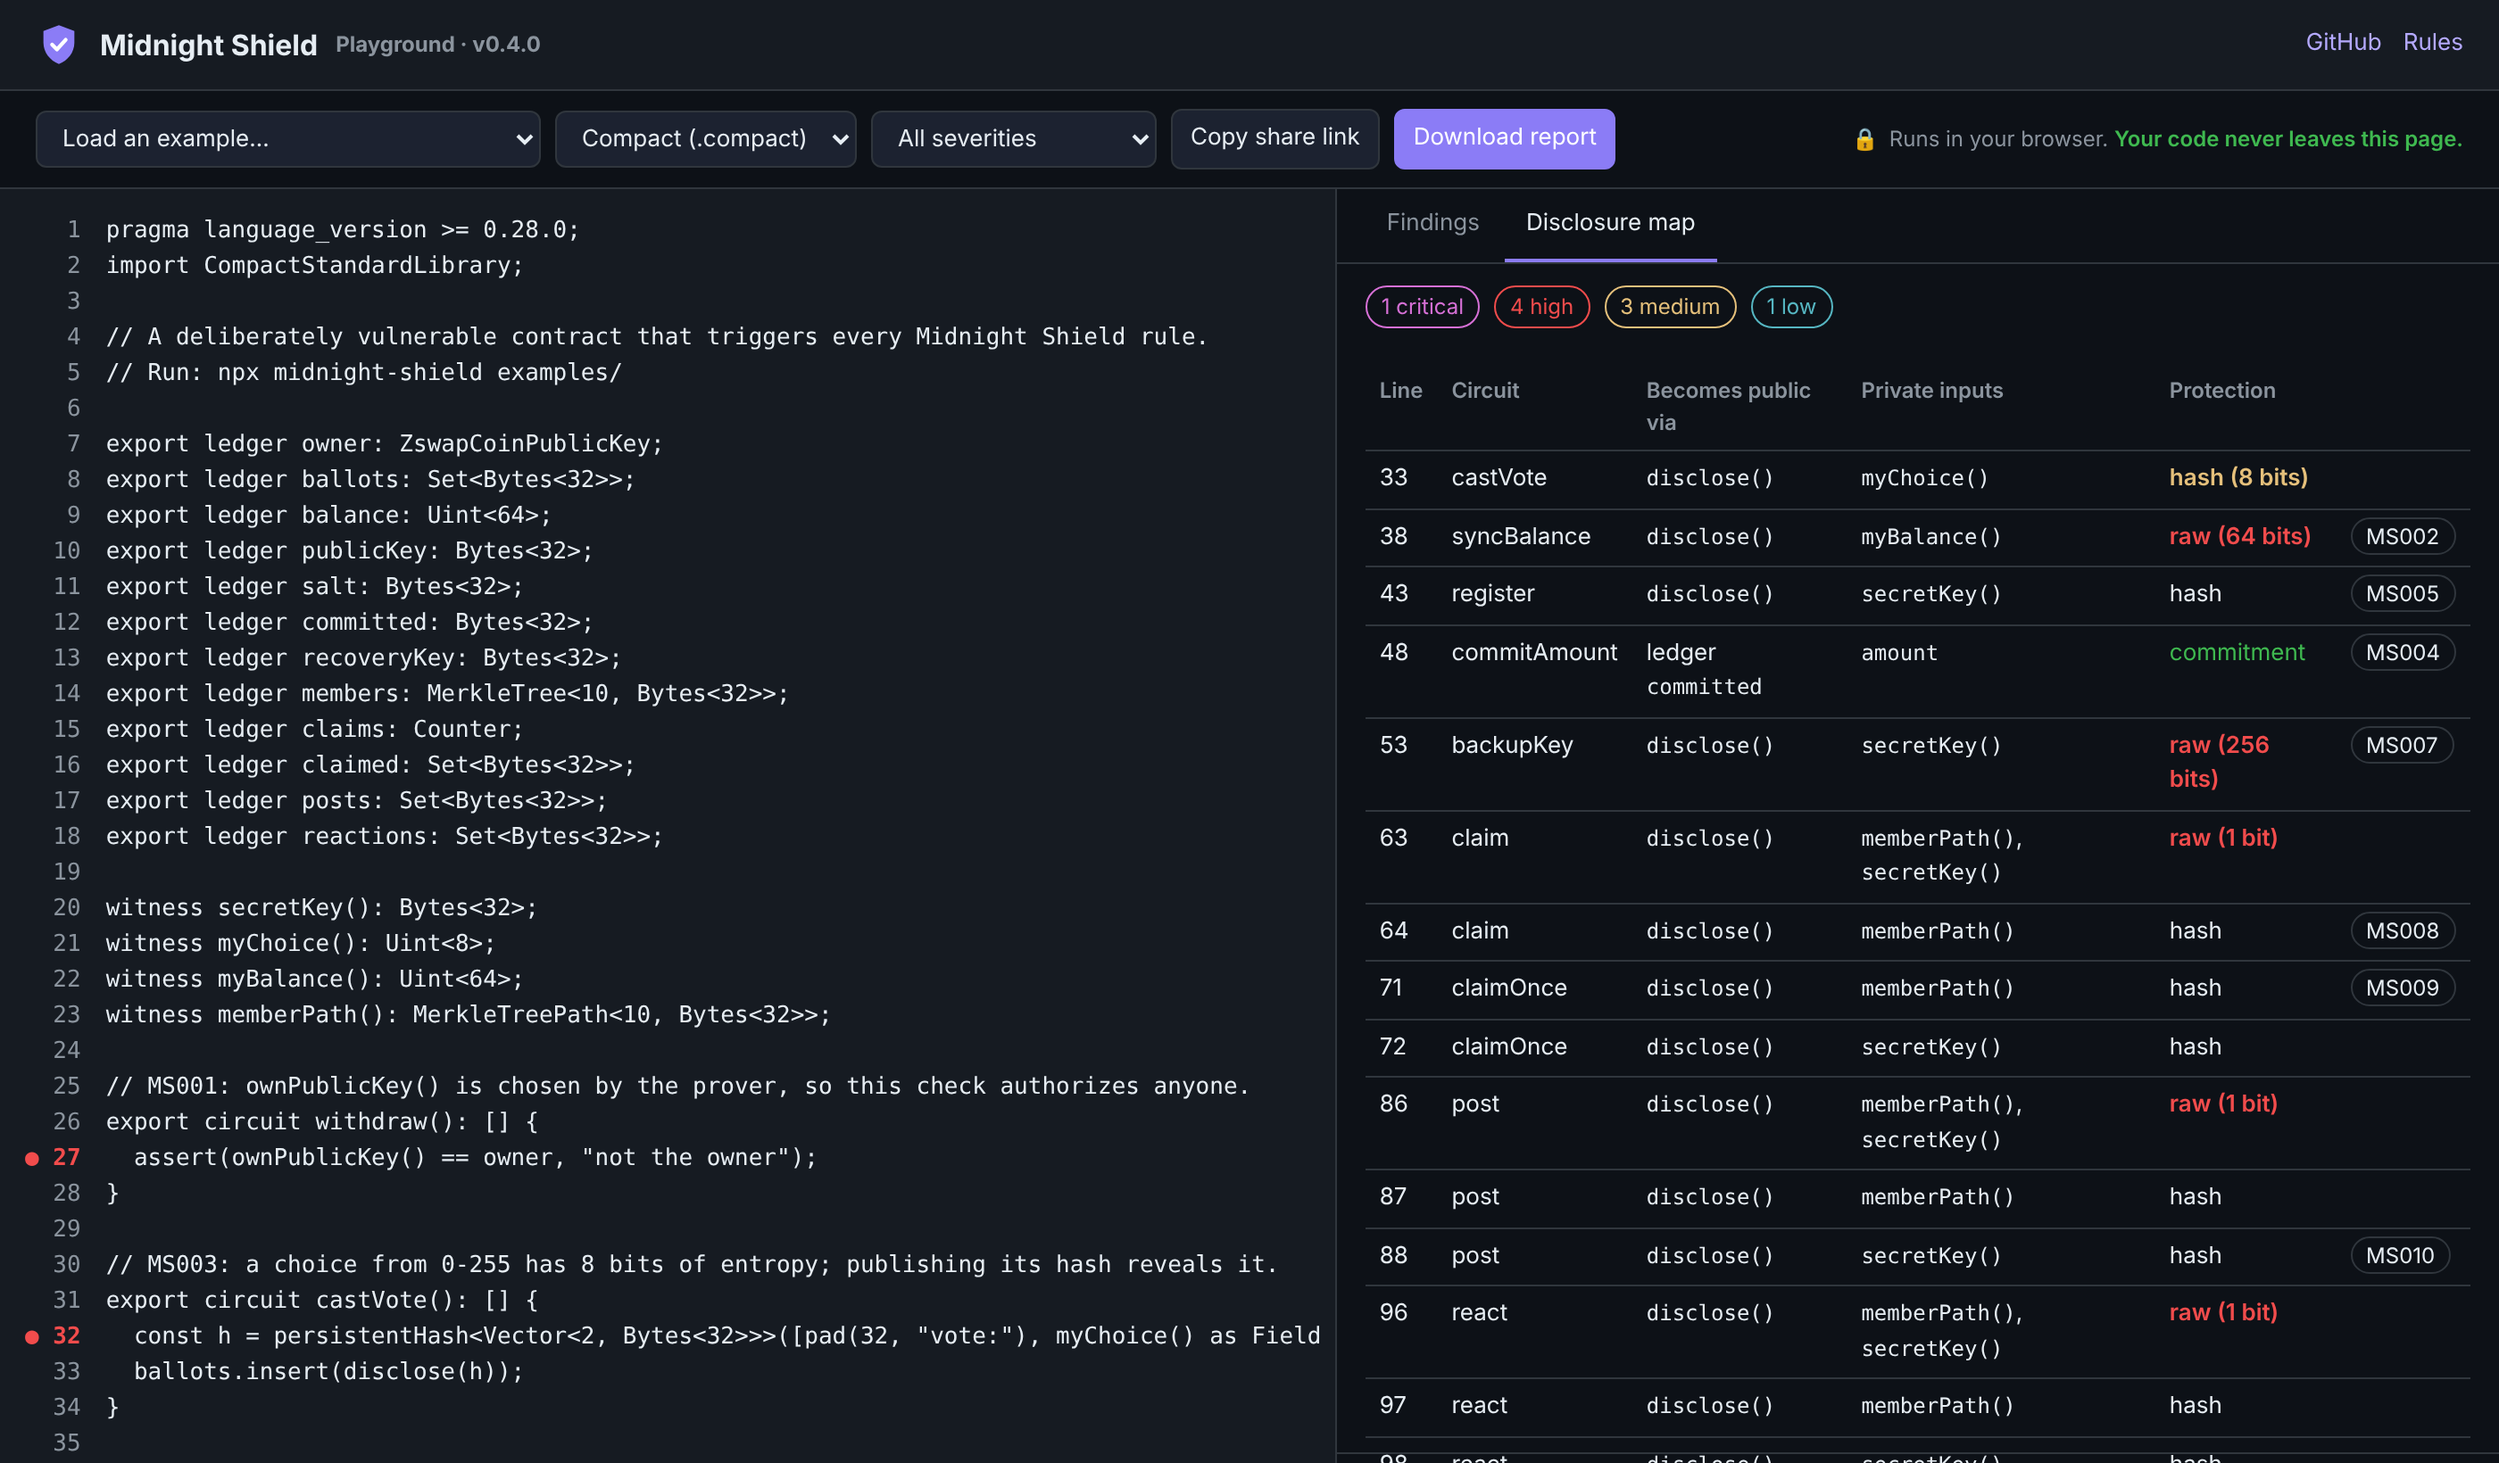
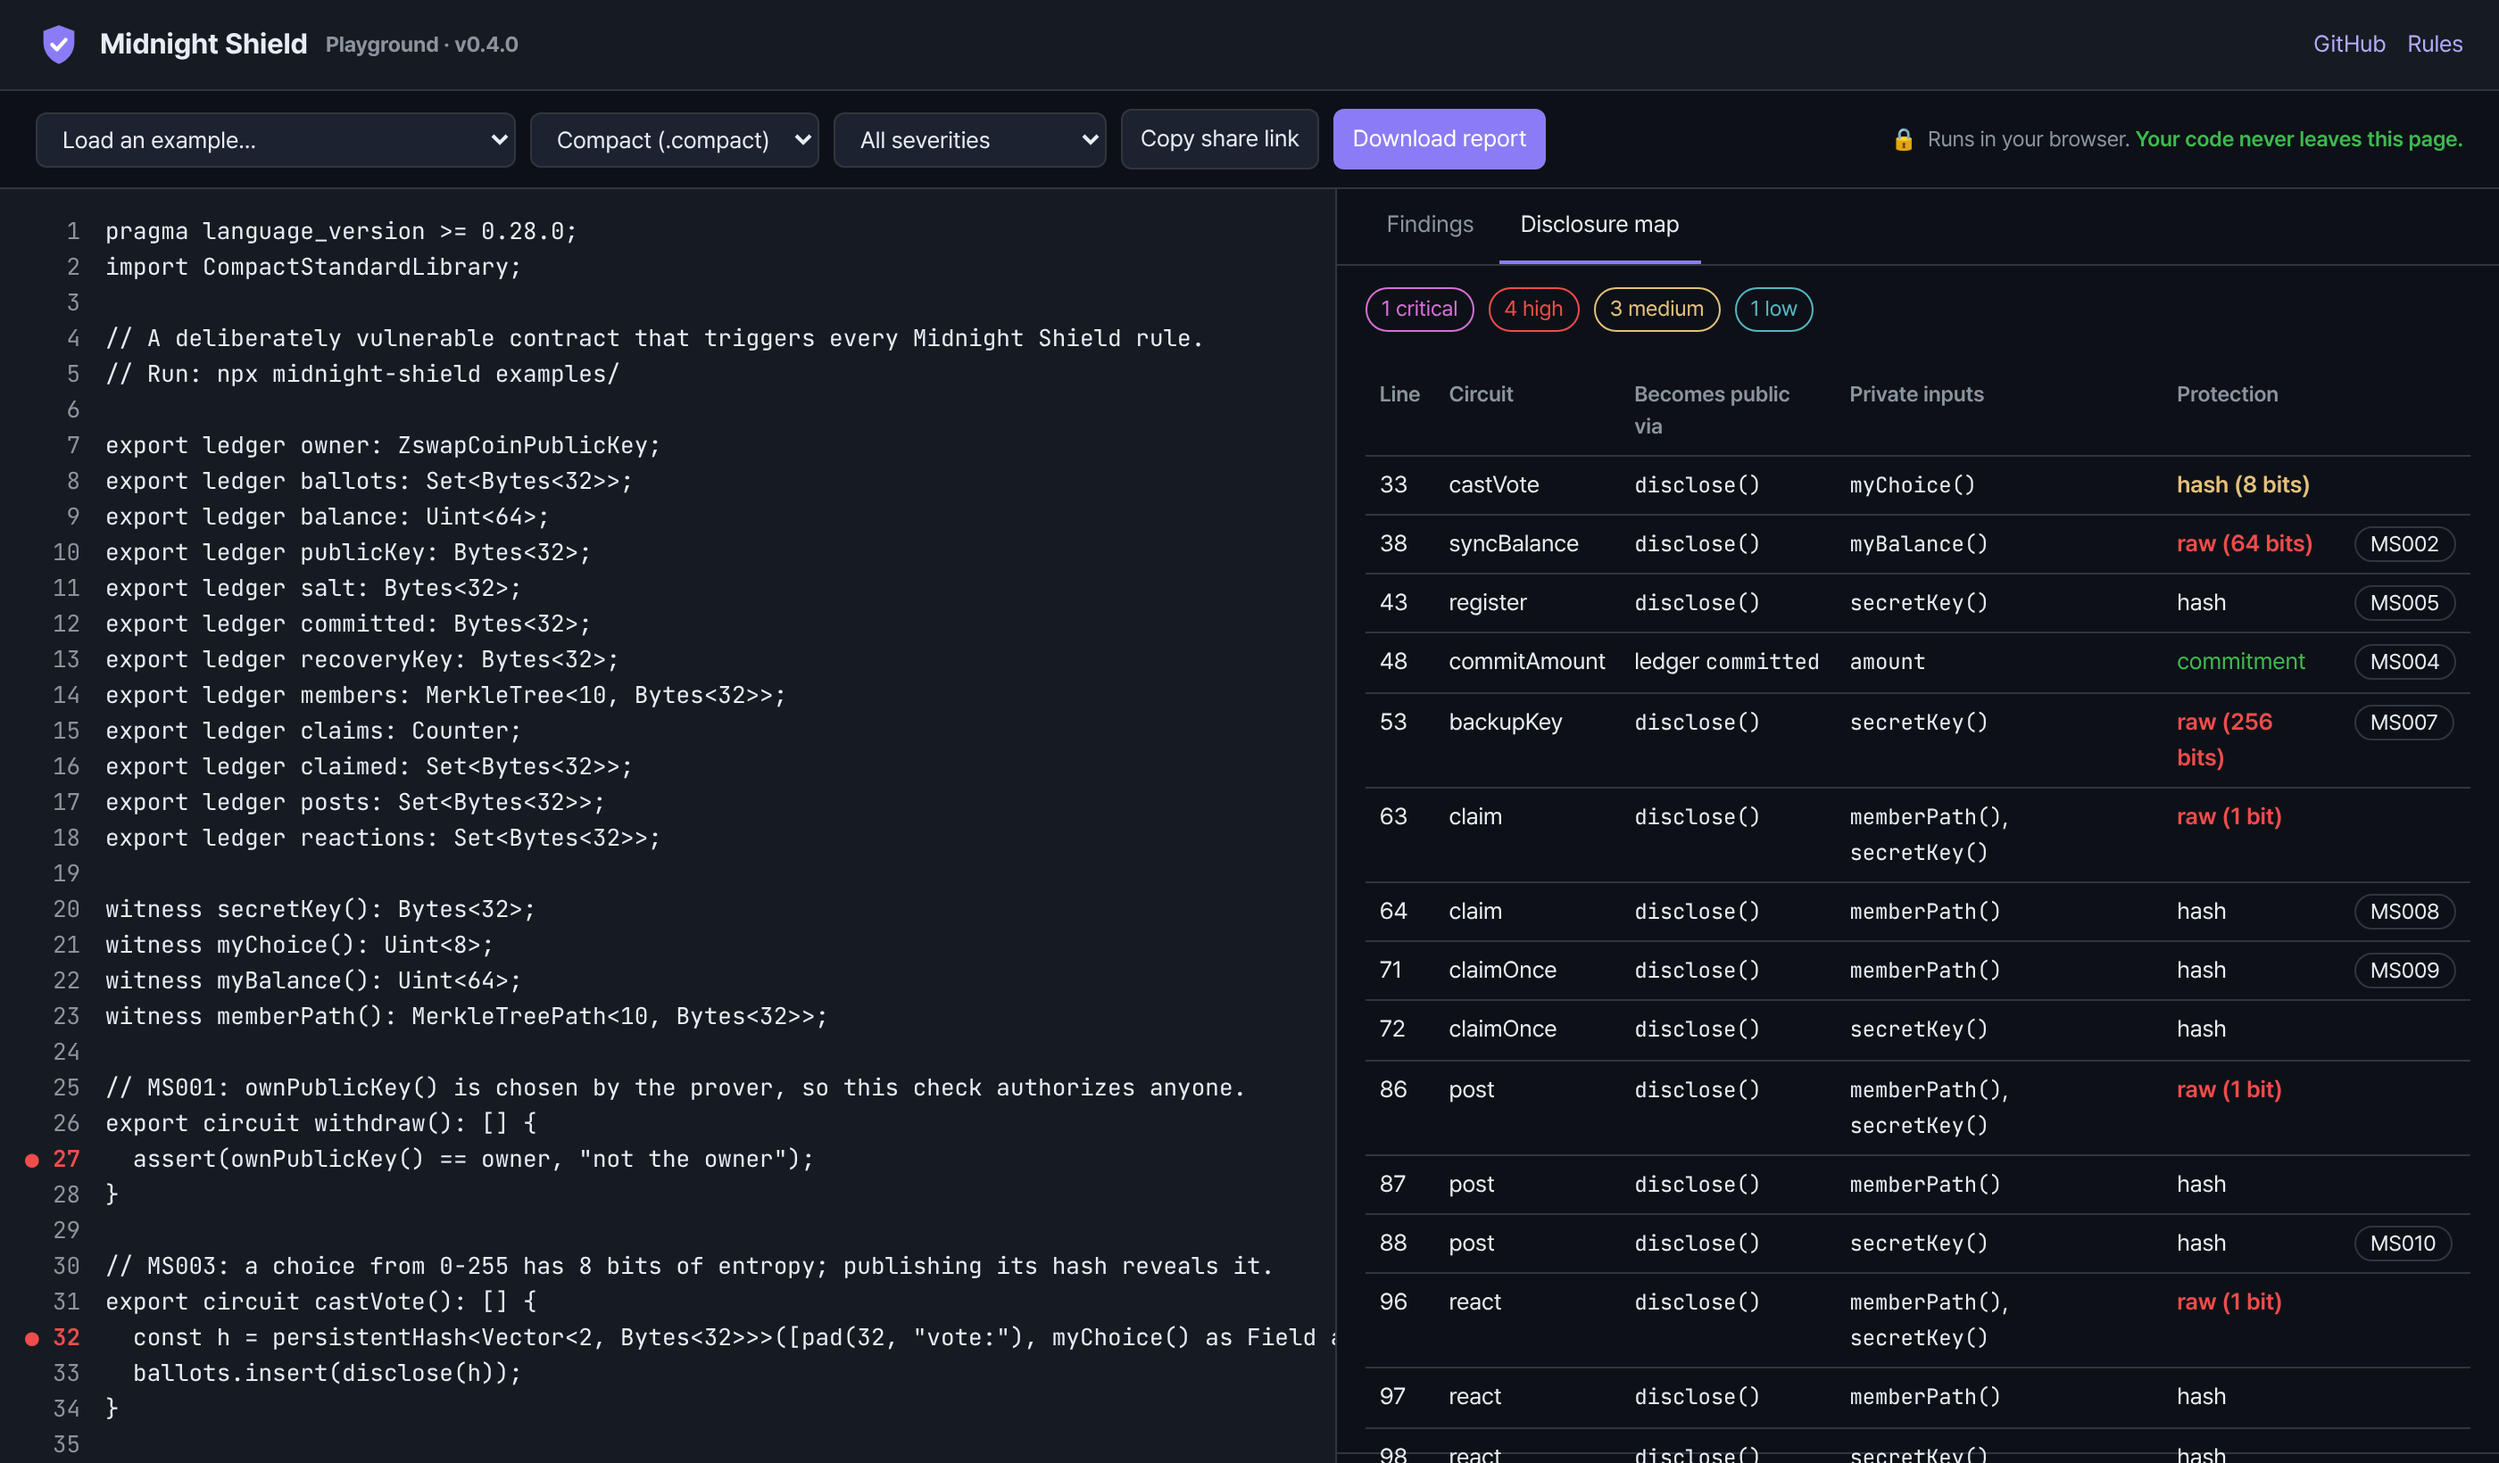
style(playground): cleaner finding cards, Pretendard and JetBrains Mono

diff --git a/playground/index.html b/playground/index.html
@@ -5,8 +5,15 @@
 <meta name="viewport" content="width=device-width, initial-scale=1">
 <title>Midnight Shield Playground</title>
 <meta name="description" content="Paste a Midnight Compact contract and see security and privacy findings. Runs entirely in your browser.">
+<link rel="preconnect" href="https://cdn.jsdelivr.net" crossorigin>
+<link rel="stylesheet" href="https://cdn.jsdelivr.net/gh/orioncactus/pretendard@v1.3.9/dist/web/variable/pretendardvariable-dynamic-subset.min.css">
+<link rel="preconnect" href="https://fonts.googleapis.com">
+<link rel="preconnect" href="https://fonts.gstatic.com" crossorigin>
+<link rel="stylesheet" href="https://fonts.googleapis.com/css2?family=JetBrains+Mono:wght@400;600&display=swap">
 <style>
 :root {
+  --sans: "Pretendard Variable", Pretendard, -apple-system, BlinkMacSystemFont, "Segoe UI", Roboto, "Apple SD Gothic Neo", "Malgun Gothic", sans-serif;
+  --mono: "JetBrains Mono", ui-monospace, SFMono-Regular, Menlo, Consolas, monospace;
   --bg: #0d1117; --panel: #161b22; --panel2: #1c2230; --border: #30363d; --text: #e6edf3; --muted: #8b949e;
   --accent: #8b7cf6; --accent2: #b4a9ff; --crit: #d670d6; --high: #f14c4c; --med: #e5c07b; --low: #56b6c2; --info: #8b949e; --ok: #3fb950;
   --line: rgba(139,124,246,.18);
@@ -16,7 +23,7 @@
     --accent: #6d5ce7; --accent2: #5546c9; --crit: #a2269e; --high: #cf222e; --med: #9a6700; --low: #0a7a8a; --info: #59636e; --ok: #1a7f37; --line: rgba(109,92,231,.14); }
 }
 * { box-sizing: border-box; }
-html, body { margin: 0; height: 100%; background: var(--bg); color: var(--text); font: 14px/1.5 -apple-system, BlinkMacSystemFont, "Segoe UI", Roboto, sans-serif; }
+html, body { margin: 0; height: 100%; background: var(--bg); color: var(--text); font: 14px/1.55 var(--sans); letter-spacing: -0.005em; -webkit-font-smoothing: antialiased; }
 header { display: flex; align-items: center; gap: 12px; padding: 12px 20px; border-bottom: 1px solid var(--border); background: var(--panel); flex-wrap: wrap; }
 .brand { display: flex; align-items: center; gap: 10px; font-weight: 700; font-size: 16px; }
 .brand svg { width: 26px; height: 26px; }
@@ -32,9 +39,9 @@ button:hover, select:hover { border-color: var(--accent); }
 main { display: grid; grid-template-columns: minmax(0, 1.15fr) minmax(0, 1fr); height: calc(100% - 112px); min-height: 520px; }
 @media (max-width: 900px) { main { grid-template-columns: 1fr; height: auto; } .editor { height: 60vh; } .results { min-height: 50vh; } }
 .editor { position: relative; display: flex; border-right: 1px solid var(--border); background: var(--panel); overflow: hidden; }
-.gutter { padding: 14px 8px 14px 14px; text-align: right; color: var(--muted); user-select: none; font: 13px/20px ui-monospace, SFMono-Regular, Menlo, Consolas, monospace; white-space: pre; overflow: hidden; min-width: 48px; }
+.gutter { padding: 14px 8px 14px 14px; text-align: right; color: var(--muted); user-select: none; font: 13px/20px var(--mono); white-space: pre; overflow: hidden; min-width: 48px; }
 .gutter .hit { color: var(--high); font-weight: 700; }
-textarea { flex: 1; resize: none; border: 0; outline: 0; padding: 14px 14px 14px 6px; background: transparent; color: var(--text); font: 13px/20px ui-monospace, SFMono-Regular, Menlo, Consolas, monospace; white-space: pre; overflow: auto; tab-size: 2; }
+textarea { flex: 1; resize: none; border: 0; outline: 0; padding: 14px 14px 14px 6px; background: transparent; color: var(--text); font: 13px/20px var(--mono); white-space: pre; overflow: auto; tab-size: 2; }
 .results { display: flex; flex-direction: column; min-width: 0; }
 .tabs { display: flex; gap: 2px; padding: 0 16px; border-bottom: 1px solid var(--border); }
 .tab { padding: 10px 12px; border: 0; border-bottom: 2px solid transparent; border-radius: 0; background: none; color: var(--muted); }
@@ -42,24 +49,30 @@ textarea { flex: 1; resize: none; border: 0; outline: 0; padding: 14px 14px 14px
 .summary { display: flex; gap: 8px; padding: 12px 16px; flex-wrap: wrap; align-items: center; }
 .pill { font-size: 12px; padding: 2px 8px; border-radius: 999px; border: 1px solid var(--border); }
 .panel { overflow: auto; padding: 0 16px 24px; flex: 1; }
-.finding { border: 1px solid var(--border); border-left-width: 4px; border-radius: 8px; padding: 10px 12px; margin: 10px 0; background: var(--panel); cursor: pointer; }
-.finding:hover { border-color: var(--accent); }
-.finding .head { display: flex; gap: 8px; align-items: baseline; flex-wrap: wrap; }
-.sev { font-weight: 700; font-size: 12px; letter-spacing: .04em; }
+.finding { border: 1px solid var(--border); border-radius: 10px; padding: 12px 14px; margin: 10px 0; background: var(--panel); cursor: pointer; transition: border-color .15s, background .15s; }
+.finding:hover { border-color: var(--accent); background: var(--panel2); }
+.finding .head { display: flex; gap: 8px; align-items: center; flex-wrap: wrap; }
+.sev { font-weight: 600; font-size: 11px; letter-spacing: .04em; padding: 1px 7px; border-radius: 4px; background: color-mix(in srgb, currentColor 14%, transparent); }
 .rule { font-weight: 600; }
 .loc, .conf { color: var(--muted); font-size: 12px; }
-.msg { margin: 6px 0 4px; }
-.snippet { font: 12px/18px ui-monospace, Menlo, Consolas, monospace; background: var(--panel2); border-radius: 6px; padding: 6px 8px; overflow-x: auto; white-space: pre; }
+.conf::before { content: "·"; margin-right: 8px; }
+.msg { margin: 8px 0 8px; color: var(--text); }
+.snippet { font: 12px/18px var(--mono); background: var(--panel2); border: 1px solid var(--border); border-radius: 6px; padding: 6px 10px; overflow-x: auto; white-space: pre; }
+.finding:hover .snippet { background: var(--panel); }
+.finding a { display: inline-block; margin-top: 8px; text-decoration: none; }
+.finding a:hover { text-decoration: underline; }
 .finding a { color: var(--accent2); font-size: 12px; }
 .empty { text-align: center; color: var(--muted); padding: 48px 16px; }
 .empty .big { font-size: 40px; color: var(--ok); }
 table { width: 100%; border-collapse: collapse; font-size: 13px; margin-top: 8px; }
 th, td { text-align: left; padding: 6px 8px; border-bottom: 1px solid var(--border); vertical-align: top; }
 th { color: var(--muted); font-weight: 600; font-size: 12px; }
-td code { font: 12px ui-monospace, Menlo, Consolas, monospace; }
+td code { font: 12px var(--mono); }
 .raw { color: var(--high); font-weight: 600; } .hash { color: var(--text); } .commit { color: var(--ok); } .weak { color: var(--med); font-weight: 600; }
 .note { color: var(--muted); font-size: 12px; margin: 12px 0 0; }
 footer { padding: 8px 20px; color: var(--muted); font-size: 12px; border-top: 1px solid var(--border); }
+/* code must show exactly what is typed: no ligatures such as >= rendered as a single glyph */
+textarea, .gutter, .snippet, code { font-variant-ligatures: none !important; font-feature-settings: "liga" 0, "calt" 0 !important; }
 </style>
 </head>
 <body>

diff --git a/playground/app.ts b/playground/app.ts
@@ -59,7 +59,7 @@ function render(): void {
     }
     panel.innerHTML = findings
       .map(
-        (f, i) => `<div class="finding" data-i="${i}" style="border-left-color:${SEV_COLOR[f.severity]}">
+        (f, i) => `<div class="finding" data-i="${i}">
           <div class="head"><span class="sev" style="color:${SEV_COLOR[f.severity]}">${f.severity.toUpperCase()}</span>
           <span class="rule">${f.ruleId} ${esc(f.ruleName)}</span><span class="loc">line ${f.line}:${f.col}</span>
           ${f.confidence !== "high" ? `<span class="conf">${f.confidence} confidence</span>` : ""}</div>

diff --git a/README.md b/README.md
@@ -71,8 +71,6 @@ npm install -g midnight-shield
 midnight-shield contracts/
 ```
 
-> If the npm package is not available yet, use `npx github:efforthye/midnight-shield contracts/`.
-
 Not ready to install anything? Paste a contract into the **[web playground](#web-playground)**.
 
 The repository has examples: [`examples/vulnerable.compact`](examples/vulnerable.compact) triggers every Compact rule, [`examples/dapp/vulnerable.ts`](examples/dapp/vulnerable.ts) every TypeScript rule, and the `safe` versions show the fixes (0 findings).
